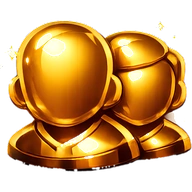
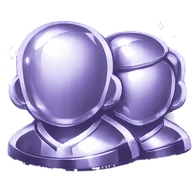
v2.22.0: kleine knopplaat in de winkel, navpictogrammen in wit-lila
- De prijs in de muntvakjes was een gewone Button, en die is gemaakt voor een
  regel over de volle breedte: hij vulde het hele vakje. Nu de kleine gouden
  plaat uit de UI-map, als art, dus hij houdt zijn eigen verhouding en groeit
  niet mee met de doos.
- De AI-scheidsrechter krijgt een zachte witte halo en staat een tikje kleiner,
  los van de bovenlijn. De halo is een echte laag en geen drop-shadow: die laat
  iOS de laag apart rasteren en dan zie je zijn rechthoek.
- De PayPal-regel in dat paneel was te lang en liep tegen de onderlijn; daar
  staat nu een korte variant.
- De pictogrammen in de onderbalk zijn van goud naar wit met een lichtpaarse
  zweem. Niet plat overgeschilderd maar via dezelfde vier-tinten-reeks als het
  goud, uitgerekt over het bereik dat de art echt gebruikt: anders wordt metaal
  een vlakke sticker.

diff --git a/frontend/src/screens/Shop.tsx b/frontend/src/screens/Shop.tsx
@@ -354,6 +354,39 @@ function Raster({ kolommen, aantal, children }: { kolommen: number; aantal: numb
   );
 }
 
+/** De kleine gouden knopplaat uit de UI-map, met een opschrift erop.
+ *
+ *  De gewone Button vulde het hele vakje: die is gemaakt voor een regel over de
+ *  volle breedte, niet voor een prijskaartje in een raster. Deze is art, dus hij
+ *  houdt zijn eigen verhouding en groeit niet mee met de doos. */
+const KNOP_VERH = 150 / 384;
+
+function KnopPlaat({ label, breed = 92, uit, onClick }: { label: React.ReactNode; breed?: number; uit?: boolean; onClick: () => void }) {
+  return (
+    <button
+      onClick={() => { if (!uit) { sound.uiTap(); onClick(); } }}
+      disabled={uit}
+      className={uit ? undefined : "pressable"}
+      style={{
+        position: "relative", width: breed, height: Math.round(breed * KNOP_VERH),
+        border: "none", background: "transparent", padding: 0, cursor: uit ? "default" : "pointer",
+        opacity: uit ? 0.55 : 1, flexShrink: 0, display: "block",
+      }}
+    >
+      <img src="/ui/knop-klein.webp" alt="" aria-hidden style={{ position: "absolute", inset: 0, width: "100%", height: "100%", display: "block" }} />
+      <span
+        style={{
+          position: "absolute", inset: 0, display: "grid", placeItems: "center",
+          fontFamily: font.display, fontWeight: 800, fontSize: Math.round(breed * 0.155), lineHeight: 1,
+          color: "#3A2405", textShadow: "0 1px 0 rgba(255,240,190,.5)",
+        }}
+      >
+        {label}
+      </span>
+    </button>
+  );
+}
+
 export function Shop({ game, onBack }: { game: GameApi; onBack: () => void }) {
   const { t } = useT();
   // De winkel hoort bij de main page: dezelfde achtergrond, zodat het voelt als
@@ -489,7 +522,18 @@ export function Shop({ game, onBack }: { game: GameApi; onBack: () => void }) {
           <Paneel>
             <div style={{ height: "100%", display: "flex", flexDirection: "column", justifyContent: "center", gap: 7, padding: "6px 10px 2px" }}>
               <div style={{ display: "flex", alignItems: "center", gap: 10 }}>
-                <img src="/ui/ai-scheids.webp" alt="" aria-hidden style={{ width: 46, height: 46, objectFit: "contain", display: "block", flexShrink: 0 }} />
+                {/* Een zachte witte halo ERACHTER, geen drop-shadow: die laat iOS
+                    de laag apart rasteren en dan zie je zijn rechthoek. */}
+                <span aria-hidden style={{ position: "relative", width: 42, height: 42, flexShrink: 0, display: "inline-grid", placeItems: "center" }}>
+                  <span
+                    style={{
+                      position: "absolute", inset: "4%", borderRadius: "50%",
+                      background: "radial-gradient(closest-side, rgba(255,255,255,.42) 0%, rgba(226,214,255,.18) 55%, transparent 100%)",
+                      filter: "blur(7px)",
+                    }}
+                  />
+                  <img src="/ui/ai-scheids.webp" alt="" style={{ position: "relative", width: 42, height: 42, objectFit: "contain", display: "block" }} />
+                </span>
                 <div style={{ flex: 1, minWidth: 0 }}>
                   <div style={{ fontFamily: font.display, fontWeight: 700, fontSize: 15.5, lineHeight: 1.15, color: colors.ink }}>{t("shopAiTitle")}</div>
                   <div style={{ fontFamily: font.ui, fontSize: 11.5, lineHeight: 1.25, color: colors.faint }}>{t("shopAiTag")}</div>
@@ -508,7 +552,7 @@ export function Shop({ game, onBack }: { game: GameApi; onBack: () => void }) {
                 </div>
               )}
               {!aiActive && status && !status.enabled && (
-                <p style={{ margin: 0, textAlign: "center", fontFamily: font.ui, fontSize: 10, color: colors.faint, lineHeight: 1.25 }}>{t("shopPaypalSoon")}</p>
+                <p style={{ margin: 0, textAlign: "center", fontFamily: font.ui, fontSize: 10, color: colors.faint, lineHeight: 1.2 }}>{t("shopPaypalSoonShort")}</p>
               )}
             </div>
           </Paneel>
@@ -533,9 +577,12 @@ export function Shop({ game, onBack }: { game: GameApi; onBack: () => void }) {
                     {i === 3 && <span style={{ position: "absolute", top: 5, right: 10, fontFamily: font.ui, fontSize: 8.5, fontWeight: 800, letterSpacing: 0.4, textTransform: "uppercase", color: colors.gold }}>{t("shopBestValue")}</span>}
                     <img src="/coins-stack.webp" alt="" style={{ width: 44, height: 44, objectFit: "contain", display: "block" }} />
                     <Coins n={b.coins} size={16} />
-                    <Button variant="gold" full compact style={{ padding: "5px 8px", fontSize: 12 }} disabled={!account || buying !== null || !status?.enabled} onClick={() => startPaypal(b.product)}>
-                      {buying === b.product ? t("shopOpeningPaypal") : money(b.price, status?.currency ?? "EUR")}
-                    </Button>
+                    <KnopPlaat
+                      breed={92}
+                      uit={!account || buying !== null || !status?.enabled}
+                      onClick={() => startPaypal(b.product)}
+                      label={buying === b.product ? "..." : money(b.price, status?.currency ?? "EUR")}
+                    />
                   </GlasVak>
                 ))}
               </Raster>

diff --git a/frontend/src/i18n/i18n.tsx b/frontend/src/i18n/i18n.tsx
@@ -373,6 +373,8 @@ const nl: Dict = {
   shopTabAvatars: "Avatars",
   shopTabCats: "Lijsten",
   withdrawRequest: "Intrekken",
+  // De korte versie, voor waar de lange regel niet past (het AI-paneel).
+  shopPaypalSoonShort: "Betalen kan binnenkort",
   shopAvatarsLead: "Elk pack heeft 9 nieuwe avatars. Kies ze in je profiel.",
   shopAvPack1: "Avatarpack 1",
   shopAvPack2: "Avatarpack 2",
@@ -1093,6 +1095,7 @@ const en: Dict = {
   shopTabAvatars: "Avatars",
   shopTabCats: "Lists",
   withdrawRequest: "Withdraw",
+  shopPaypalSoonShort: "Paying opens soon",
   shopAvatarsLead: "Each pack has 9 new avatars. Pick them in your profile.",
   shopAvPack1: "Avatar pack 1",
   shopAvPack2: "Avatar pack 2",

diff --git a/frontend/src/components/BottomNav.tsx b/frontend/src/components/BottomNav.tsx
@@ -30,7 +30,7 @@ export type NavKey = "shop" | "leaderboard" | "home" | "friends" | "profile";
 // naam vervangt. De service worker bewaart plaatjes cache-first en ruimt pas op
 // bij zijn volgende activatie, dus alleen zijn versie ophogen laat er nog een
 // laadbeurt de oude bytes doorheen. Een andere URL kan dat niet gebeuren.
-const NAV_ART = 3;
+const NAV_ART = 4; // 4: wit met een lichtpaarse zweem i.p.v. goud
 const SLOTS = [11.6, 31.0, 50, 69.1, 88.4];
 // De scheiding staat MIDDEN tussen de twee pictogrammen van een vak, dus op het
 // gemiddelde van hun posities. Twee vakken, twee groeven; over het gouden

diff --git a/frontend/public/sw.js b/frontend/public/sw.js
@@ -10,7 +10,7 @@
 //    briefly-stale shell can still boot from cache instead of going black.
 //  - Every activation purges ALL old caches (drops any poisoned shell).
 // Never touches the WebSocket or the API.
-const CACHE = "penneer-v53"; // v53: AI-scheids-art, winkelachtergrond, hexagon gecentreerd
+const CACHE = "penneer-v54"; // v54: kleine knopplaat, witte navpictogrammen
 
 self.addEventListener("install", () => {
   self.skipWaiting();

diff --git a/frontend/src/version.ts b/frontend/src/version.ts
@@ -1,2 +1,2 @@
 // Bump per user-facing release. Shown in Settings > About.
-export const APP_VERSION = "2.21.0";
+export const APP_VERSION = "2.22.0";
